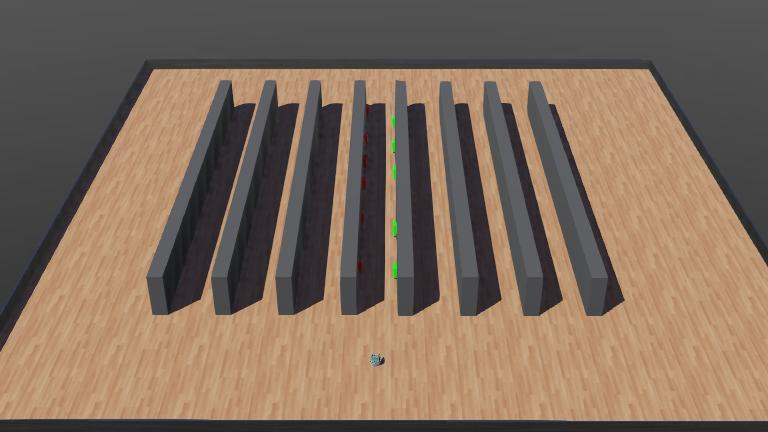
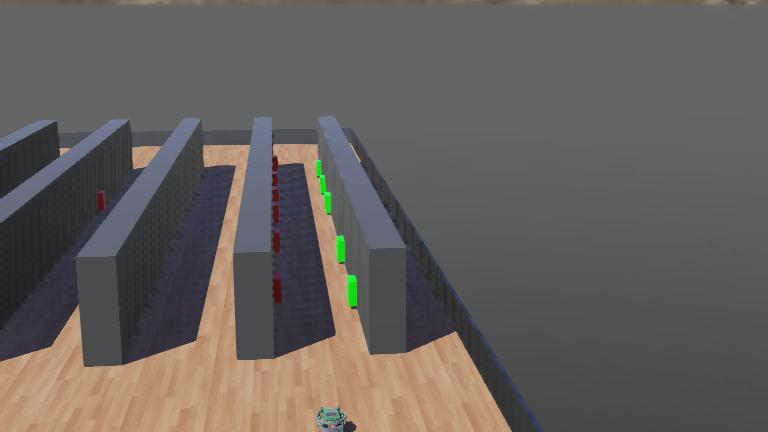
uploaded gridmapper

diff --git a/controllers/wais_controller/grid_mapper.py b/controllers/wais_controller/grid_mapper.py
@@ -1,132 +1,88 @@
+gps = None
 
- 
-from controller import Robot
-import navigation
-import perception
-import grid_mapper
-import math
- 
-robot   = Robot()
-timestep = int(robot.getBasicTimeStep())
- 
-# FSM States
-EXPLORE         = "EXPLORE"
-AVOID_OBSTACLE  = "AVOID_OBSTACLE"
-TARGET_DETECTED = "TARGET_DETECTED"
-RECOVERY        = "RECOVERY"
- 
-state = EXPLORE
- 
+WAYPOINTS = [
+    (1.88, 0.173, "left"),
+    (1.88, 0.553, "left"),
+    (-1.82, 0.553, "right"),
+    (-1.82, 0.953, "right"),
+    (1.83, 0.953, "left"),
+    (1.83, 1.34, "left"),
+    (-1.67, 1.34, "done")
+]
 
-navigation.setup(robot, timestep)
-perception.setup(robot, timestep)
- 
+current_target = 0
+turn_steps = 0
+turn_direction = None
 
-START_X       = -1.92765
-START_Y       = -0.00240742
-START_HEADING =  0.0          
- 
-grid_mapper.setup(robot, timestep,
-                  start_x=START_X,
-                  start_y=START_Y,
-                  start_heading=START_HEADING)
- 
+TURN_STEPS = 22
+TARGET_DISTANCE = 0.12
 
-inventory_count      = 0
-recovery_counter     = 0
-last_print_time      = 0
-last_grid_print_time = 0
-no_detection_counter = 0
-last_logged_colour   = None
-currently_detecting  = False
- 
-print("[WAIS] Controller started")
- 
+visited_points = set()
 
-while robot.step(timestep) != -1:
- 
-    
-    colour   = perception.detect_inventory_marker()
-    obstacle = navigation.obstacle_detected()
-    grid_mapper.update()                        
- 
-    current_time = robot.getTime()
- 
-    
-    if obstacle:
-        colour = None
- 
-    
-    if colour is None:
-        no_detection_counter += 1
-    else:
-        no_detection_counter = 0
- 
-    if no_detection_counter > 30:
-        currently_detecting  = False
-        last_logged_colour   = None
- 
-    
-    if recovery_counter > 40:
-        state = RECOVERY
-    elif obstacle:
-        state = AVOID_OBSTACLE
-    elif colour is not None:
-        state = TARGET_DETECTED
-    else:
-        state = EXPLORE
- 
-    
-    if state == EXPLORE:
-        recovery_counter = 0
-        perception.reset_confirmation()
- 
-        
-        direction = grid_mapper.get_explore_direction()
- 
-        if direction == "forward":
-            navigation.move_forward()
-        elif direction == "left":
-            navigation.turn_left()
-        elif direction == "right":
-            navigation.turn_right()
-        elif direction == "done":
-            navigation.stop_robot()
-            if current_time - last_print_time > 2.0:
-                print("[WAIS] Exploration complete!")
-                print(f"[WAIS] Total inventory items logged: {inventory_count}")
- 
-    elif state == AVOID_OBSTACLE:
-        navigation.avoid_obstacle()
-        recovery_counter += 1
-        perception.reset_confirmation()
- 
-    elif state == TARGET_DETECTED:
-        navigation.move_forward()
- 
-        
-        if colour != last_logged_colour:
-            inventory_count   += 1
-            last_logged_colour = colour
-            print(f"[WAIS] Item logged: {colour}  |  Total: {inventory_count}")
- 
-    elif state == RECOVERY:
-        print("[WAIS] Recovery behaviour triggered")
-        navigation.reverse()
-        navigation.turn_right()
-        recovery_counter = 0
-        perception.reset_confirmation()
- 
-    
-    if current_time - last_print_time > 0.5:
-        x, y, hdg = grid_mapper.get_pose()
-        print(f"[WAIS] State: {state}  |  "
-              f"Pos: ({x:.2f}, {y:.2f})  |  "
-              f"Heading: {math.degrees(hdg):.1f}°  |  "
-              f"Coverage: {grid_mapper.coverage_percent():.1f}%")
-        last_print_time = current_time
- 
-    
-    if current_time - last_grid_print_time > 10.0:
-        grid_mapper.print_grid()
-        last_grid_print_time = current_time
+
+def setup(robot, timestep, start_x=0.0, start_y=0.0, start_heading=0.0):
+    global gps
+
+    gps = robot.getDevice("gps")
+    gps.enable(timestep)
+
+    print("[GRID] Waypoint mapper enabled")
+
+
+def get_pose():
+    values = gps.getValues()
+
+    x = values[0]
+    y = values[1]
+    heading = 0.0
+
+    return x, y, heading
+
+
+def update():
+    x, y, heading = get_pose()
+    visited_points.add((round(x, 1), round(y, 1)))
+
+
+def get_explore_direction():
+    global current_target, turn_steps, turn_direction
+
+    if current_target >= len(WAYPOINTS):
+        return "done"
+
+    if turn_steps > 0:
+        turn_steps -= 1
+        return turn_direction
+
+    x, y, heading = get_pose()
+
+    target_x, target_y, action = WAYPOINTS[current_target]
+
+    dx = target_x - x
+    dy = target_y - y
+
+    distance = (dx * dx + dy * dy) ** 0.5
+
+    if distance < TARGET_DISTANCE:
+        visited_points.add((round(target_x, 1), round(target_y, 1)))
+
+        if action == "done":
+            return "done"
+
+        turn_direction = action
+        turn_steps = TURN_STEPS
+
+        current_target += 1
+
+        return turn_direction
+
+    return "forward"
+
+
+def coverage_percent():
+    return (len(visited_points) / len(WAYPOINTS)) * 100
+
+
+def print_grid():
+    print("[GRID] Visited points:", visited_points)
+    print("[GRID] Coverage:", round(coverage_percent(), 1), "%")

diff --git a/controllers/wais_controller/wais_controller.py b/controllers/wais_controller/wais_controller.py
@@ -1,6 +1,8 @@
 from controller import Robot
 import navigation
 import perception
+import grid_mapper
+import math
 
 robot = Robot()
 timestep = int(robot.getBasicTimeStep())
@@ -15,6 +17,10 @@ state = EXPLORE
 
 navigation.setup(robot, timestep)
 perception.setup(robot, timestep)
+grid_mapper.setup(robot, timestep,
+                  start_x=-1.92765,
+                  start_y=0,
+                  start_heading=0.0)
 
 inventory_count = 0
 recovery_counter = 0
@@ -27,7 +33,9 @@ last_logged_colour = None
 print("Controller started")
 
 while robot.step(timestep) != -1:
-
+    
+    grid_mapper.update()
+    
     colour = perception.detect_inventory_marker()
     obstacle = navigation.obstacle_detected()
     if obstacle:
@@ -61,10 +69,24 @@ while robot.step(timestep) != -1:
         last_print_time = current_time
 
     if state == EXPLORE:
-
-        navigation.move_forward()
+        
         recovery_counter = 0
         perception.reset_confirmation()
+    
+        direction = grid_mapper.get_explore_direction()
+    
+        if direction == "forward":
+            navigation.move_forward()
+    
+        elif direction == "left":
+            navigation.turn_left()
+    
+        elif direction == "right":
+            navigation.turn_right()
+    
+        elif direction == "done":
+            navigation.stop_robot()
+            print("[WAIS] Route complete")
 
     elif state == AVOID_OBSTACLE:
 
